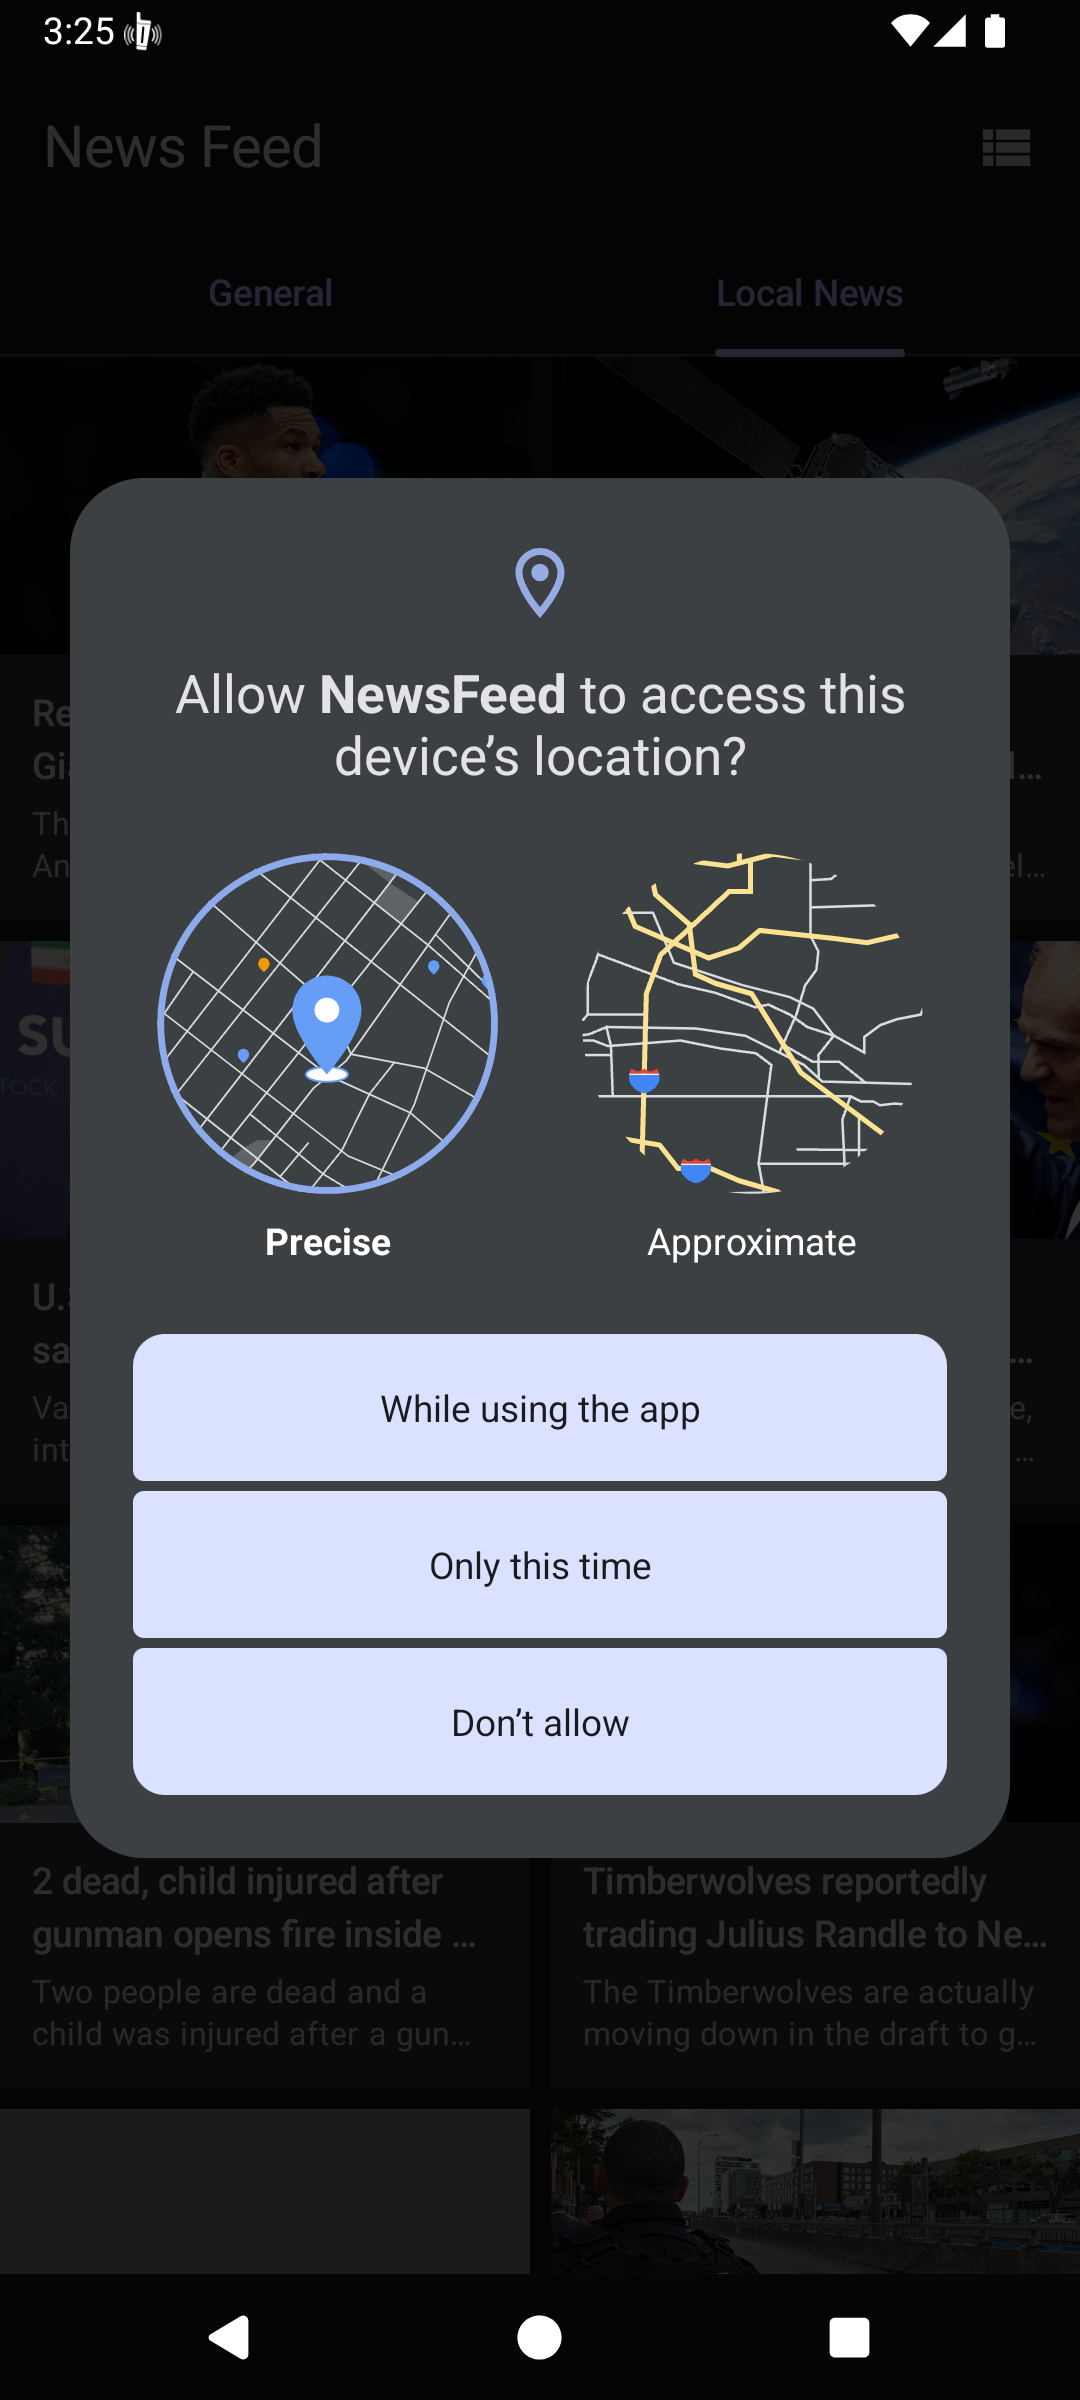
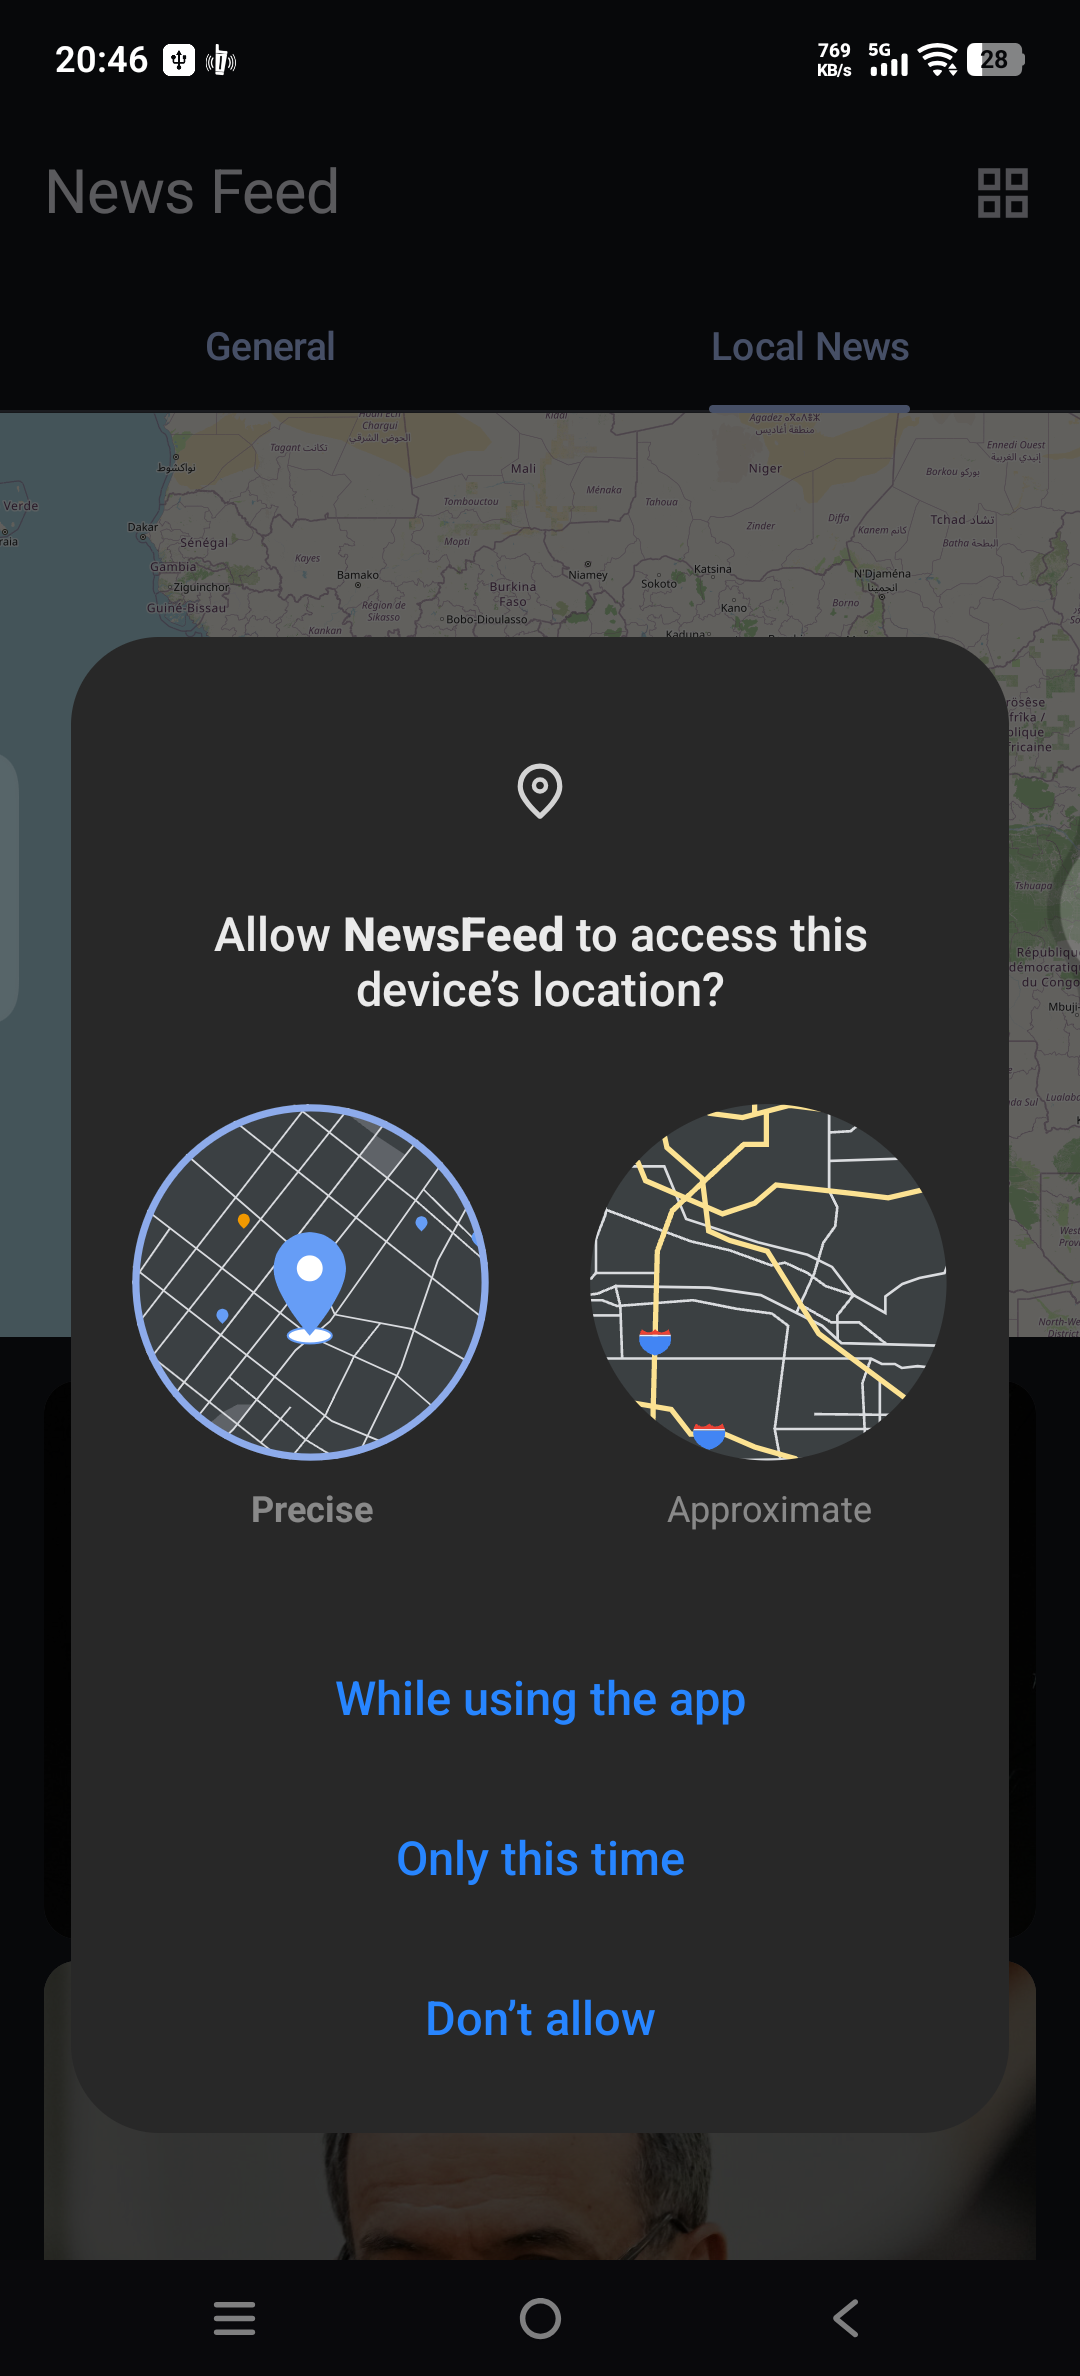
update documentation

diff --git a/docs/2_GPS_LBS_Feature.md b/docs/2_GPS_LBS_Feature.md
@@ -1,59 +1,56 @@
-# GPS & LBS (Location Based Services) Feature
+# GPS, LBS & Interactive Map Feature
 
-This project implements mobile location sensors to deliver localized news content based on the user's current physical location.
+This project implements mobile location sensors and an interactive map to deliver localized news content based on the user's current physical location or any dropped pin on the map.
 
 ## 1. Feature Description
-The application accesses the device's location when the user navigates to the "Local News" tab. It retrieves the current country code and adjusts the news feed accordingly.
+The application accesses the device's location when the user navigates to the "Local News" tab. It retrieves the current coordinates and adjusts the news feed. Furthermore, users can interact with an embedded, API-key-free OpenStreetMap to tap on any country in the world and instantly pull breaking news for that region.
 
 ## 2. Technical Implementation
 
-- **Library**: `FusedLocationProviderClient` from Google Play Services.
+- **Location Library**: `FusedLocationProviderClient` from Google Play Services.
+- **Map Library**: `Osmdroid` (OpenStreetMap).
+- **Reverse Geocoding**: Native Android `Geocoder`.
 - **Permissions Required**: 
   - `ACCESS_COARSE_LOCATION`
   - `ACCESS_FINE_LOCATION`
-- **Component**: `LocationTracker`
+- **Component**: `LocationTracker` & `OsmMapView`
 
-### Code Sample
-Here is the core logic inside the project responsible for fetching and reverse-geocoding the user's location into a specific Country Code:
+### Code Sample: Reverse Geocoding
+Here is the core logic inside the project responsible for converting a tapped map coordinate into a specific Country Code using the native Geocoder:
 
 ```kotlin
-override suspend fun getCurrentLocation(): Location? {
-    // Check Permissions
-    val hasAccessFineLocationPermission = ContextCompat.checkSelfPermission(
-        application, Manifest.permission.ACCESS_FINE_LOCATION
-    ) == PackageManager.PERMISSION_GRANTED
-    
-    if (!hasAccessFineLocationPermission) return null
-
-    // Fetch Coordinates and Geocode to Country Code
-    return suspendCancellableCoroutine { cont ->
-        locationClient.lastLocation.addOnCompleteListener { task ->
-            if (task.isSuccessful && task.result != null) {
-                val address = geocoder.getFromLocation(
-                    task.result.latitude, 
-                    task.result.longitude, 
-                    1
-                )?.firstOrNull()
-                
-                val countryCode = address?.countryCode?.lowercase() ?: "us"
-                cont.resume(Location(countryCode))
-            } else {
+    override suspend fun getCountryCodeFromLocation(latitude: Double, longitude: Double): String? {
+        return suspendCancellableCoroutine { cont ->
+            val geocoder = Geocoder(context, Locale.getDefault())
+            try {
+                if (Build.VERSION.SDK_INT >= Build.VERSION_CODES.TIRAMISU) {
+                    geocoder.getFromLocation(latitude, longitude, 1) { addresses ->
+                        val countryCode = addresses.firstOrNull()?.countryCode?.lowercase()
+                        cont.resume(countryCode)
+                    }
+                } else {
+                    @Suppress("DEPRECATION")
+                    val addresses = geocoder.getFromLocation(latitude, longitude, 1)
+                    val countryCode = addresses?.firstOrNull()?.countryCode?.lowercase()
+                    cont.resume(countryCode)
+                }
+            } catch (e: Exception) {
                 cont.resume(null)
             }
         }
     }
-}
 ```
 
 ### Workflow:
 1. **Permission Check**: The application verifies if location permissions have been granted via a Compose dialog.
-2. **Coordinate Retrieval**: `LocationTracker` retrieves the device's current Latitude and Longitude.
+2. **Coordinate Retrieval**: `LocationTracker` retrieves the device's current Latitude and Longitude via GPS, or users tap a point on the map.
 3. **Reverse Geocoding**: The coordinates are processed using Android's native `Geocoder` to obtain the physical address.
-4. **Country Code Extraction**: The "Country Code" is extracted from the address object (e.g., `ID` for Indonesia or `US` for the United States).
+4. **Country Code Extraction**: The "Country Code" is extracted from the address object (e.g., `id` for Indonesia or `us` for the United States).
 5. **Content Fetching**: The country code is passed as a parameter (`country=id`) to the NewsAPI endpoint to localize the news feed.
+6. **Dynamic UI**: The map utilizes Jetpack Compose `AnimatedVisibility` bound to the news list's scroll state, gracefully collapsing when the user scrolls down to read articles.
 
 ## 3. Implementation Screenshots
 
-| Permission Request Dialog          | Localized News Feed                  |
+| Permission Request Dialog          | Interactive Map Feed                 |
 |------------------------------------|--------------------------------------|
-| ![Permission Dialog](images/4.png) | ![Localized News Feed](images/5.png) |
+| ![Permission Dialog](images/4.png) | ![Interactive Map Feed](images/5.png)|

diff --git a/README.md b/README.md
@@ -4,9 +4,9 @@ A simple Android application that displays news articles using the NewsAPI. Buil
 
 ## Features
 
-| List View                       | Grid View                       | Detail View                       |
-|---------------------------------|---------------------------------|-----------------------------------|
-| ![List View](docs/images/1.png) | ![Grid View](docs/images/2.png) | ![Detail View](docs/images/3.png) |
+| List View                       | Grid View                       | Map View                        | Detail View                       |
+|---------------------------------|---------------------------------|---------------------------------|-----------------------------------|
+| ![List View](docs/images/1.png) | ![Grid View](docs/images/2.png) | ![Map View](docs/images/5.png)  | ![Detail View](docs/images/3.png) |
 
 
 - 📰 Browse top news headlines
@@ -14,7 +14,7 @@ A simple Android application that displays news articles using the NewsAPI. Buil
 - 📱 Modern Material Design 3 UI
 - ♾ Infinite scrolling with pagination
 - 🗄 **Offline Caching**: Read downloaded news without an internet connection (Room).
-- 📍 **Localized News (LBS)**: Dynamically fetches news for your current country using GPS.
+- 📍 **Interactive News Map (LBS)**: Dynamically fetches localized news using GPS.
 - 🔒 **Mobile Security**: Protected against rooting, emulators, tampering, and MITM attacks via freeRASP and Network Security Config.
 - 📳 **Shake to Refresh**: Physically shake the device to reload the feed using the Accelerometer sensor.
 - 🖼 Image loading with caching
@@ -78,9 +78,10 @@ app
 - **Paging 3** - Infinite scrolling pagination (with `RemoteMediator`)
 - **Navigation Compose** - Screen navigation
 
-### Security & Device
+### Security & Location
 - **Talsec freeRASP** - Runtime Application Self-Protection (Root, Emulator, Hooking detection)
 - **Play Services Location** - GPS coordinates and Reverse Geocoding
+- **Osmdroid** - Interactive OpenStreetMap integration
 - **Hardware Sensors** - Accelerometer event detection
 
 ### Dependency Injection
